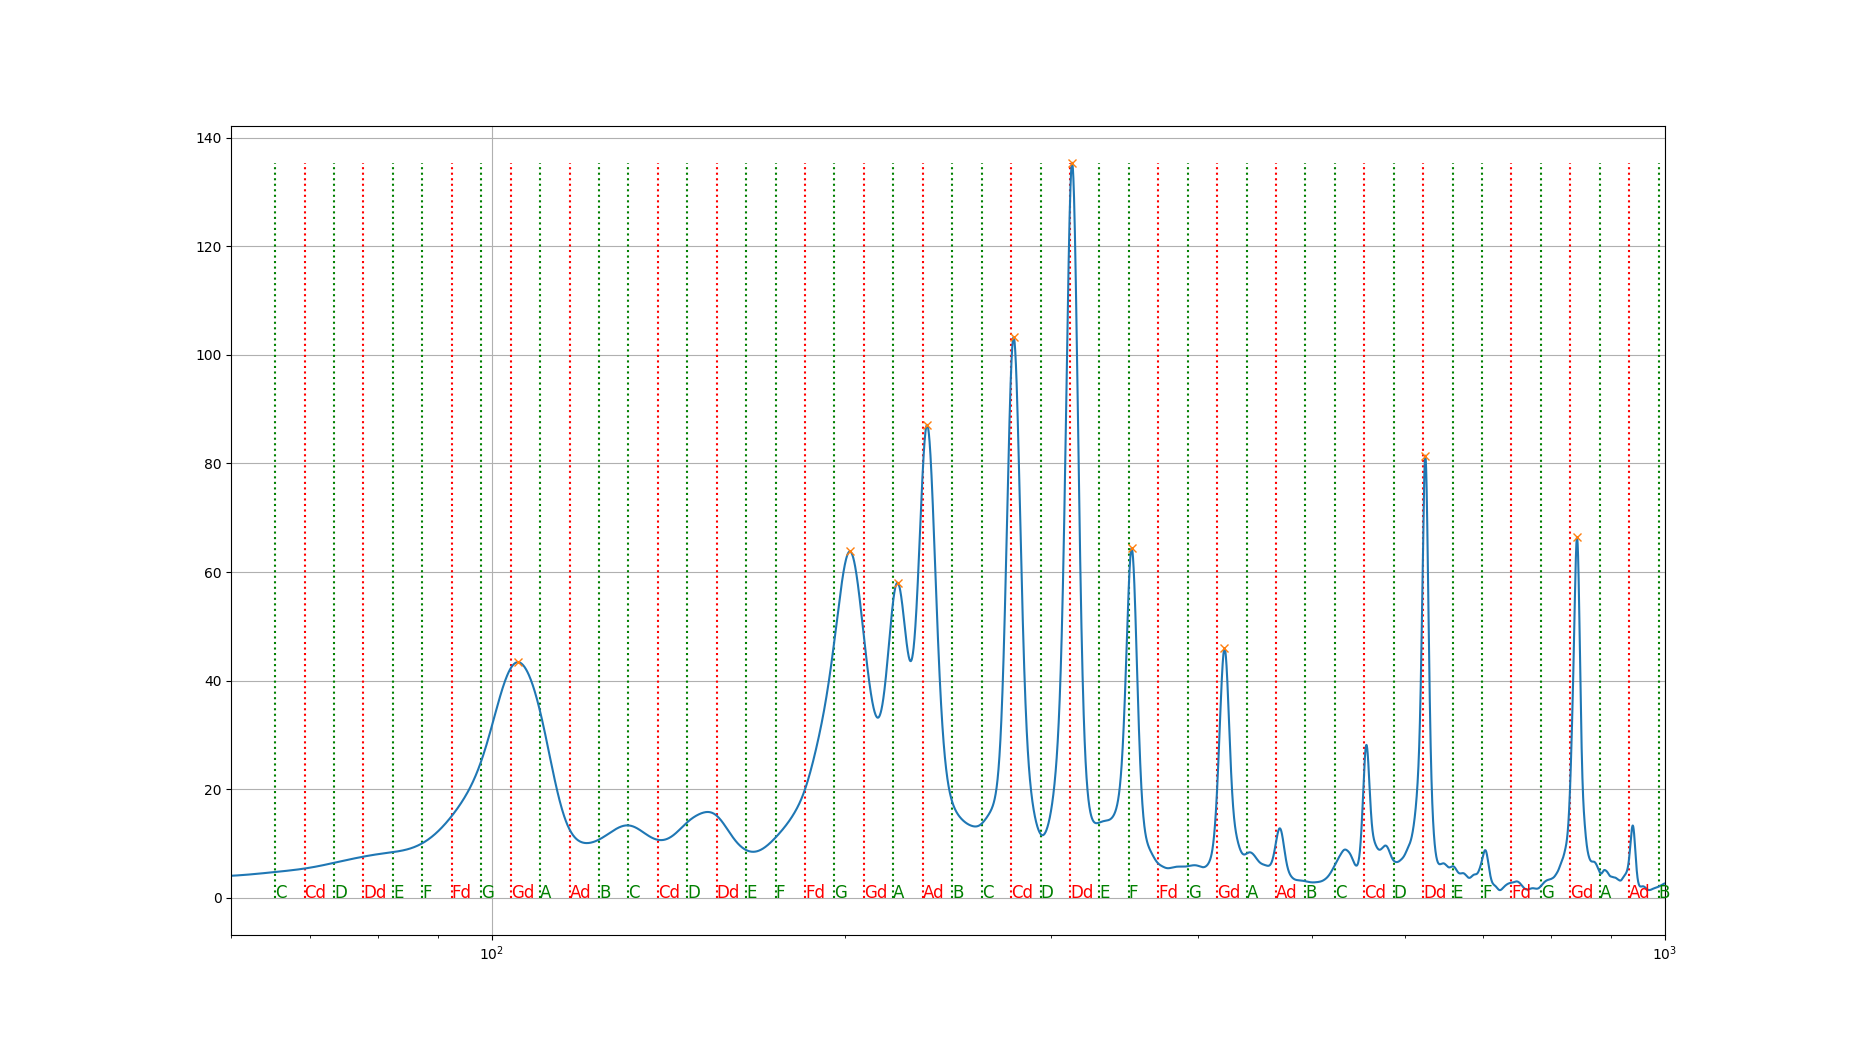
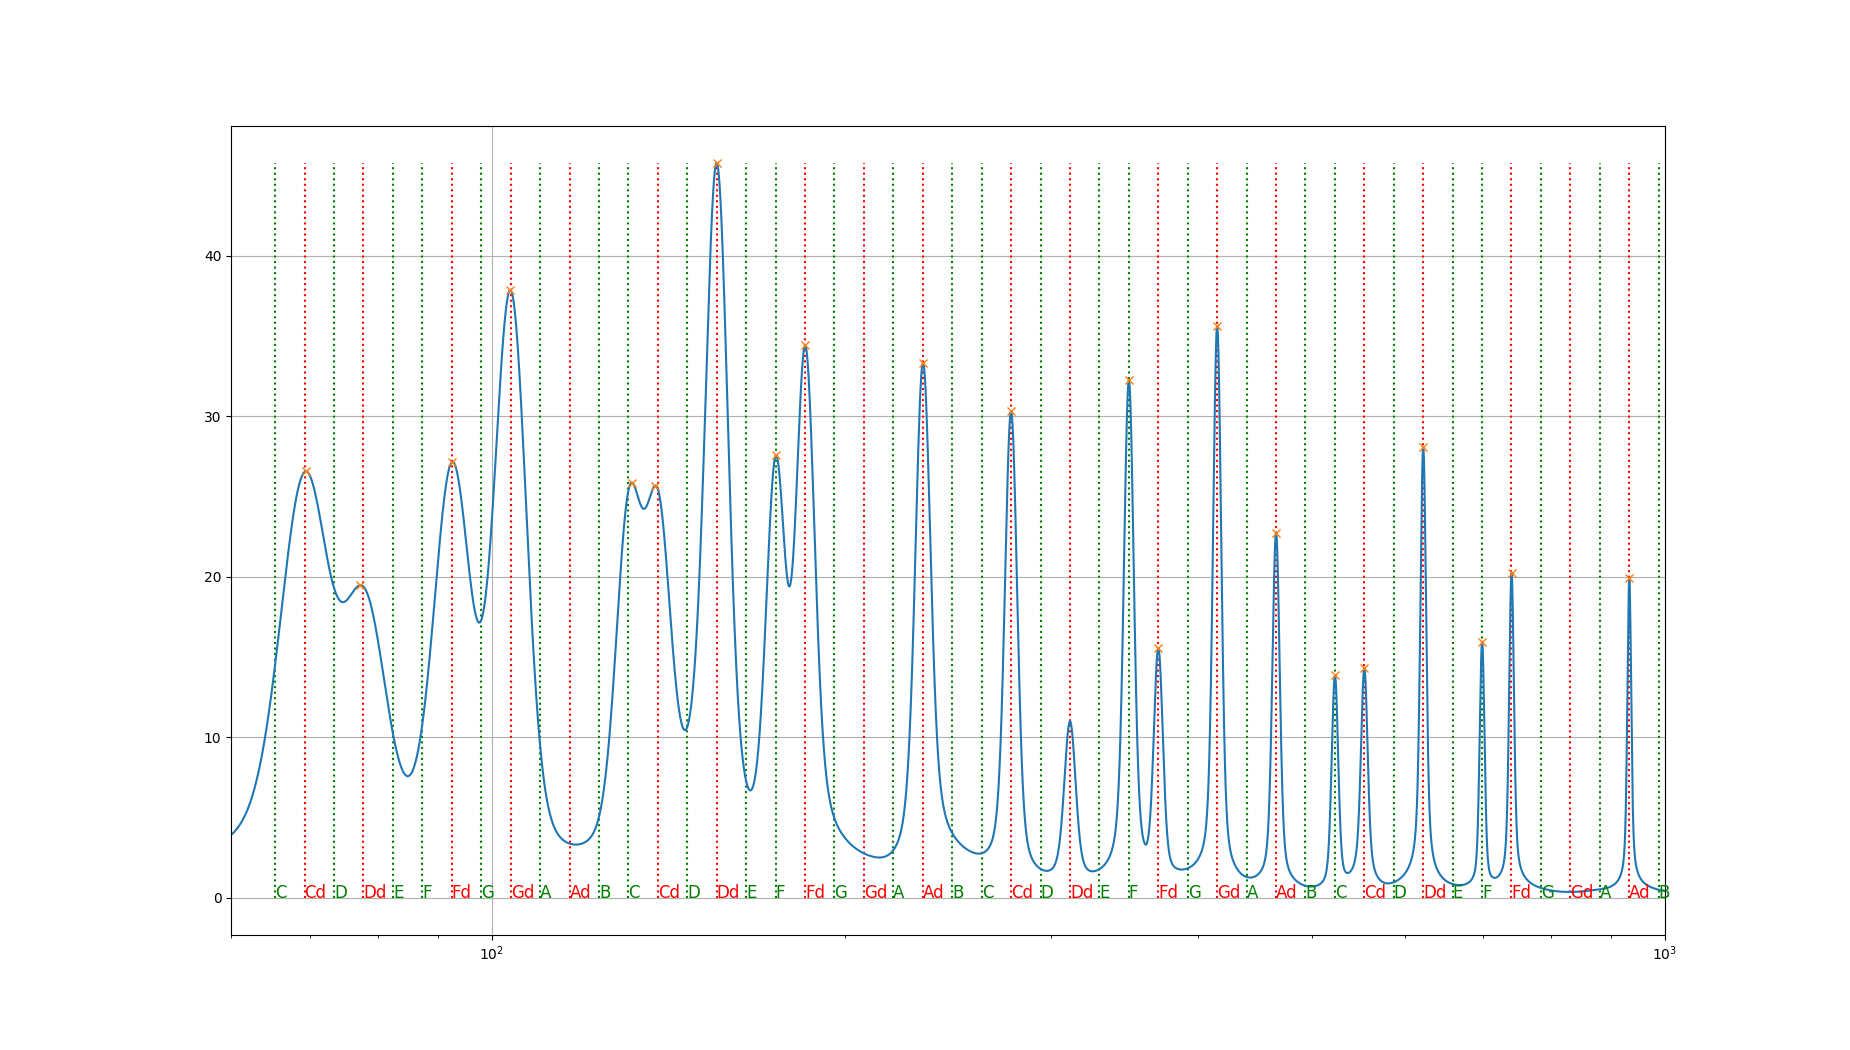
sorted peaks and notes, trunc fft to 18Khz max, two init function for audio, fft_show and print

diff --git a/Audio.py b/Audio.py
@@ -320,7 +320,7 @@ def predict_scale(filename, realscale, output_folder): #usefull for full test of
 
 
 
-def Show_fft(Spectre,Freq,notescale,peaks, file_path=None): #need to implemant marker with the good note on the graph
+def Print_fft(Spectre,Freq,notescale,peaks, file_path=None): #need to implemant marker with the good note on the graph
     listscale = ["C", "Cd", "D", "Dd", "E", "F", "Fd", "G", "Gd", "A", "Ad", "B"]
     scale=0
     for i in range (0,len(listscale)):
@@ -377,6 +377,59 @@ def Show_fft(Spectre,Freq,notescale,peaks, file_path=None): #need to implemant m
         Path(file_path).mkdir(exist_ok=True)
         plt.savefig(file_path + "/spectrogram.png", dpi=100)
         plt.clf()
+
+def Show_fft(Spectre,Freq,notescale,peaks, file_path=None): #need to implemant marker with the good note on the graph
+    listscale = ["C", "Cd", "D", "Dd", "E", "F", "Fd", "G", "Gd", "A", "Ad", "B"]
+    scale=0
+    for i in range (0,len(listscale)):
+        if(listscale[i]==notescale):
+            scale=i
+    gamme = note_frequencies_construct()
+    Biglistscale=listscale
+
+    for n in range (0,scale):
+        gamme=np.multiply(gamme,1.05946)#adapt scale frequency to selected scale
+        listscale=np.concatenate([listscale,listscale])
+    listscale=listscale[scale:12+scale]
+
+
+    goodnote=[0,2,4,5,7,9,11]
+    badnote=[1,3,6,8,10]
+
+    Biglistscale=listscale
+    Biggamme=gamme
+    Biggoodnote=goodnote
+    Bigbadnote=badnote
+
+    for numberofscale in range(0,3):
+        gamme=gamme*2
+        Biggamme = np.concatenate([Biggamme, gamme])
+        Biglistscale=np.concatenate([Biglistscale,listscale])
+        goodnote=np.add(goodnote,12)
+        Biggoodnote = np.concatenate([Biggoodnote,goodnote])
+        badnote = np.add(badnote, 12)
+        Bigbadnote = np.concatenate([Bigbadnote,badnote])
+
+    plt.grid()
+    maxfft=np.max(Spectre)
+    plt.xlim(60,1000)
+    for n in  Biggoodnote:
+        plt.vlines(Biggamme[n], 0, maxfft, linestyles="dotted", colors="green")
+        plt.text(Biggamme[n], 0, Biglistscale[n], color="green", fontsize=12)
+    for n in  Bigbadnote:
+        plt.vlines(Biggamme[n], 0, maxfft, linestyles="dotted", colors="red")
+        plt.text(Biggamme[n], 0, Biglistscale[n], color="red", fontsize=12)
+
+
+    fig = plt.gcf()
+    fig.set_size_inches(18.5, 10.5)
+    #fig.savefig('test2png.png', dpi=100)
+    plt.xscale("log")
+    plt.plot(Freq, Spectre)
+    if (len(peaks) != 1):
+        plt.plot(Freq[peaks], Spectre[peaks], 'x')
+
+    plt.show()
 
 
 def get_sample_filepath(real_scale,sample_number,type_of_sample):
@@ -436,6 +489,22 @@ def hz_to_note_array (frequencies_array):
     return notes_array
 
 
+def sort_peaks(peaks_value,peaks_hz):
+    max_value_index=np.argsort(peaks_value)
+    max_value_index=max_value_index[::-1]
+    peaks_value=np.sort(peaks_value)
+    new_peaks_value=peaks_value[::-1]
+
+    new_peaks_hz=np.zeros(len(peaks_hz))
+    for n in range(0,len(max_value_index)) :
+        new_peaks_hz[n]=peaks_hz[max_value_index[n]]
+
+    new_peaks_char=hz_to_note_array(new_peaks_hz)
+
+    return new_peaks_value, new_peaks_hz, new_peaks_char
+
+
+
 class Audio :
     spectrum = 0
     frequencies = 0
@@ -463,9 +532,13 @@ class Audio :
         # Generation of result path
         self.result_path = "./" + self.output_directory + self.file_name
 
+    def __init__(self, filename, scale):
+        self.real_scale = scale
+        self.rate, self.sample = scipy.io.wavfile.read(filename, mmap=False)
 
     def fft(self):
         self.spectrum,self.frequencies =get_fft(self.sample, self.rate)
+        self.spectrum,self.frequencies =fft_trunc(self.spectrum,self.frequencies,0,18000)
 
     def smooth_fft(self, smoothing_value):
         self.spectrum = scipy.ndimage.gaussian_filter1d(self.spectrum, smoothing_value, order=0)
@@ -477,6 +550,9 @@ class Audio :
         self.peaks_hz = self.frequencies[peaks]
         self.peaks_notes = hz_to_note_array(self.peaks_hz)
 
+    def sort_peaks(self):
+        self.peaks_value,self.peaks_hz, self.peaks_notes=  sort_peaks(self.peaks_value, self.peaks_hz)
+
     def find_max_notes_peaks(self):
 
         self.max_notes_char= hz_to_note_array(self.peaks_hz)
@@ -484,6 +560,9 @@ class Audio :
 
 
     def fft_show(self):
+        Show_fft(self.spectrum, self.frequencies, self.real_scale, self.peaks)
+
+    def fft_print(self):
         Show_fft(self.spectrum, self.frequencies, self.real_scale, self.peaks, self.result_path)
 
 

diff --git a/main.py b/main.py
@@ -4,8 +4,8 @@ import os
 import pandas as pd
 # Choose your sample here
 
-real_scale = "C#"
-type_of_sample = "CleanGuitar"
+real_scale = "C"
+type_of_sample = "Sinus"
 output_folder = 'outputs/'
 
 # Number of files for given sample and scale
@@ -14,9 +14,27 @@ list_files = os.listdir(path_directory) # dir is your directory path
 number_files = len(list_files)
 
 
-for number in range(0, number_files):
 
-    sample_number = number
+
+
+
+real_scale = "C"
+type_of_sample = "Sinus"
+
+file_input=get_sample_filepath(real_scale,4,type_of_sample)
+print("file_input", file_input)
+Audio_Obj = Audio(file_input, real_scale)
+Audio_Obj.fft()
+Audio_Obj.smooth_fft(25)
+Audio_Obj.find_peaks()
+Audio_Obj.sort_peaks()
+Audio_Obj.fft_show()
+
+
+
+for number in range(0,4):
+
+    sample_number = 4
 
     # Don't touch zone
     file_input = get_sample_filepath(real_scale, sample_number, type_of_sample)
@@ -24,8 +42,9 @@ for number in range(0, number_files):
     print('file_input', file_input)
 
     # Have fun zone (supress and test all you want)
+    [""]
+    print("peaks before", )
     Audio_Obj = Audio(file_input, output_folder, real_scale)
-    print(Audio_Obj.sample)
     Audio_Obj.fft()
     Audio_Obj.smooth_fft(30)
     Audio_Obj.find_peaks()
